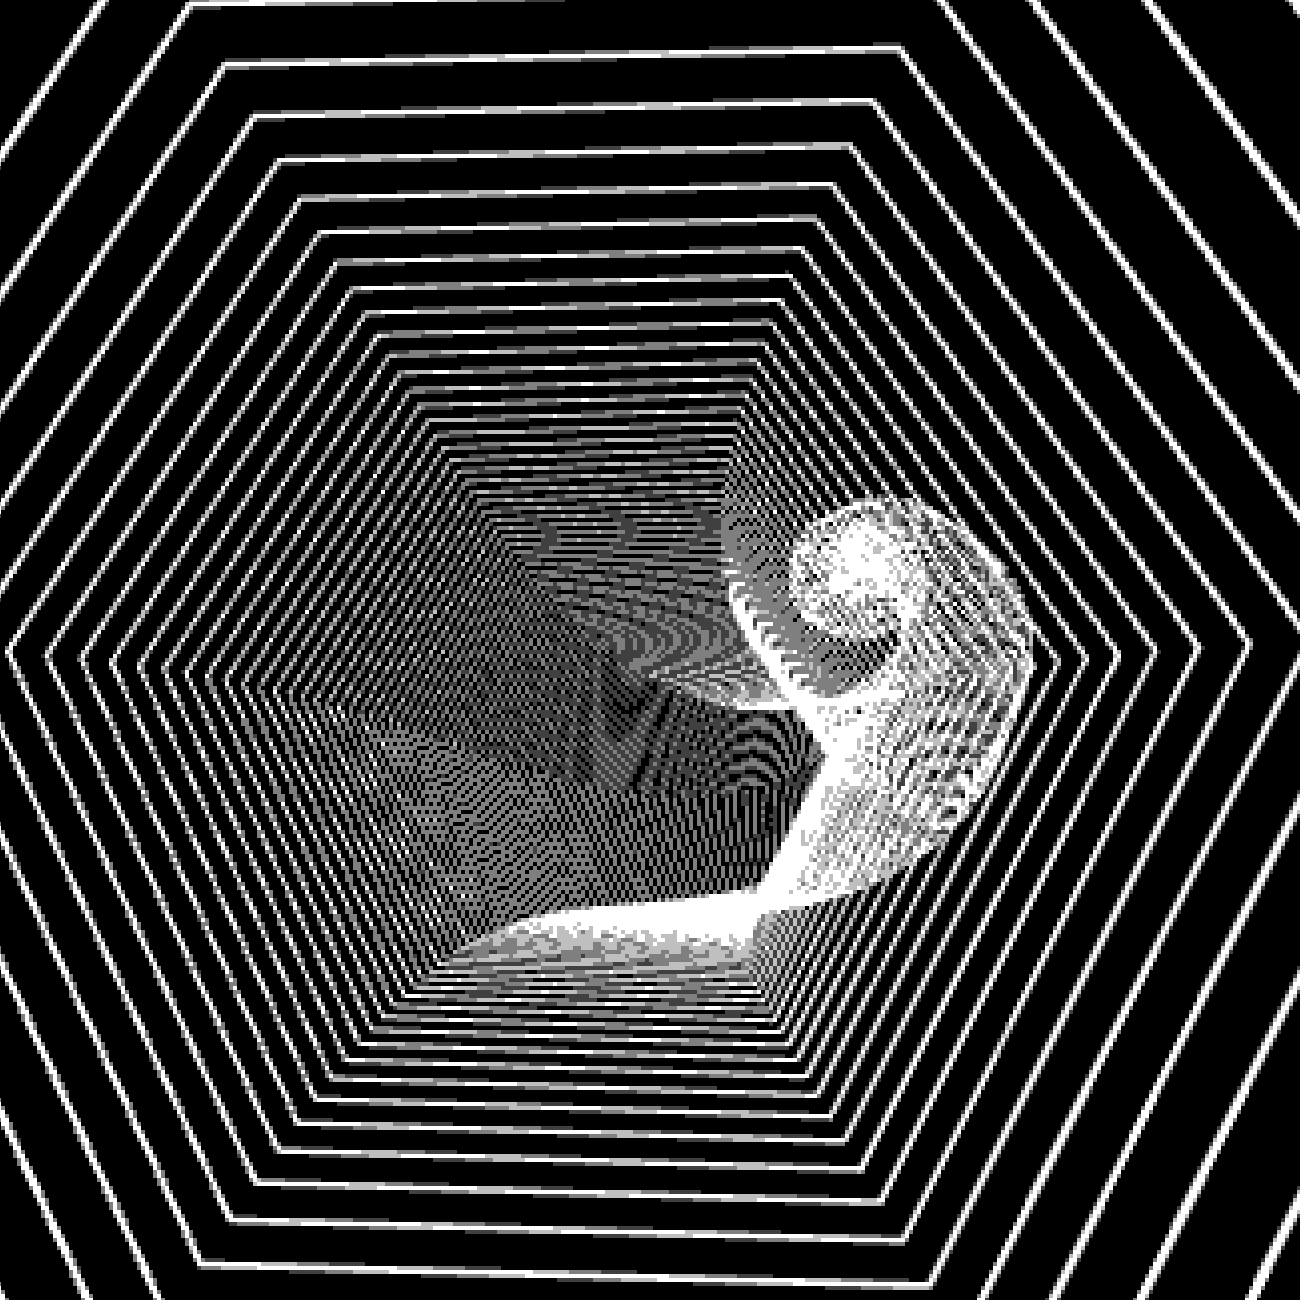
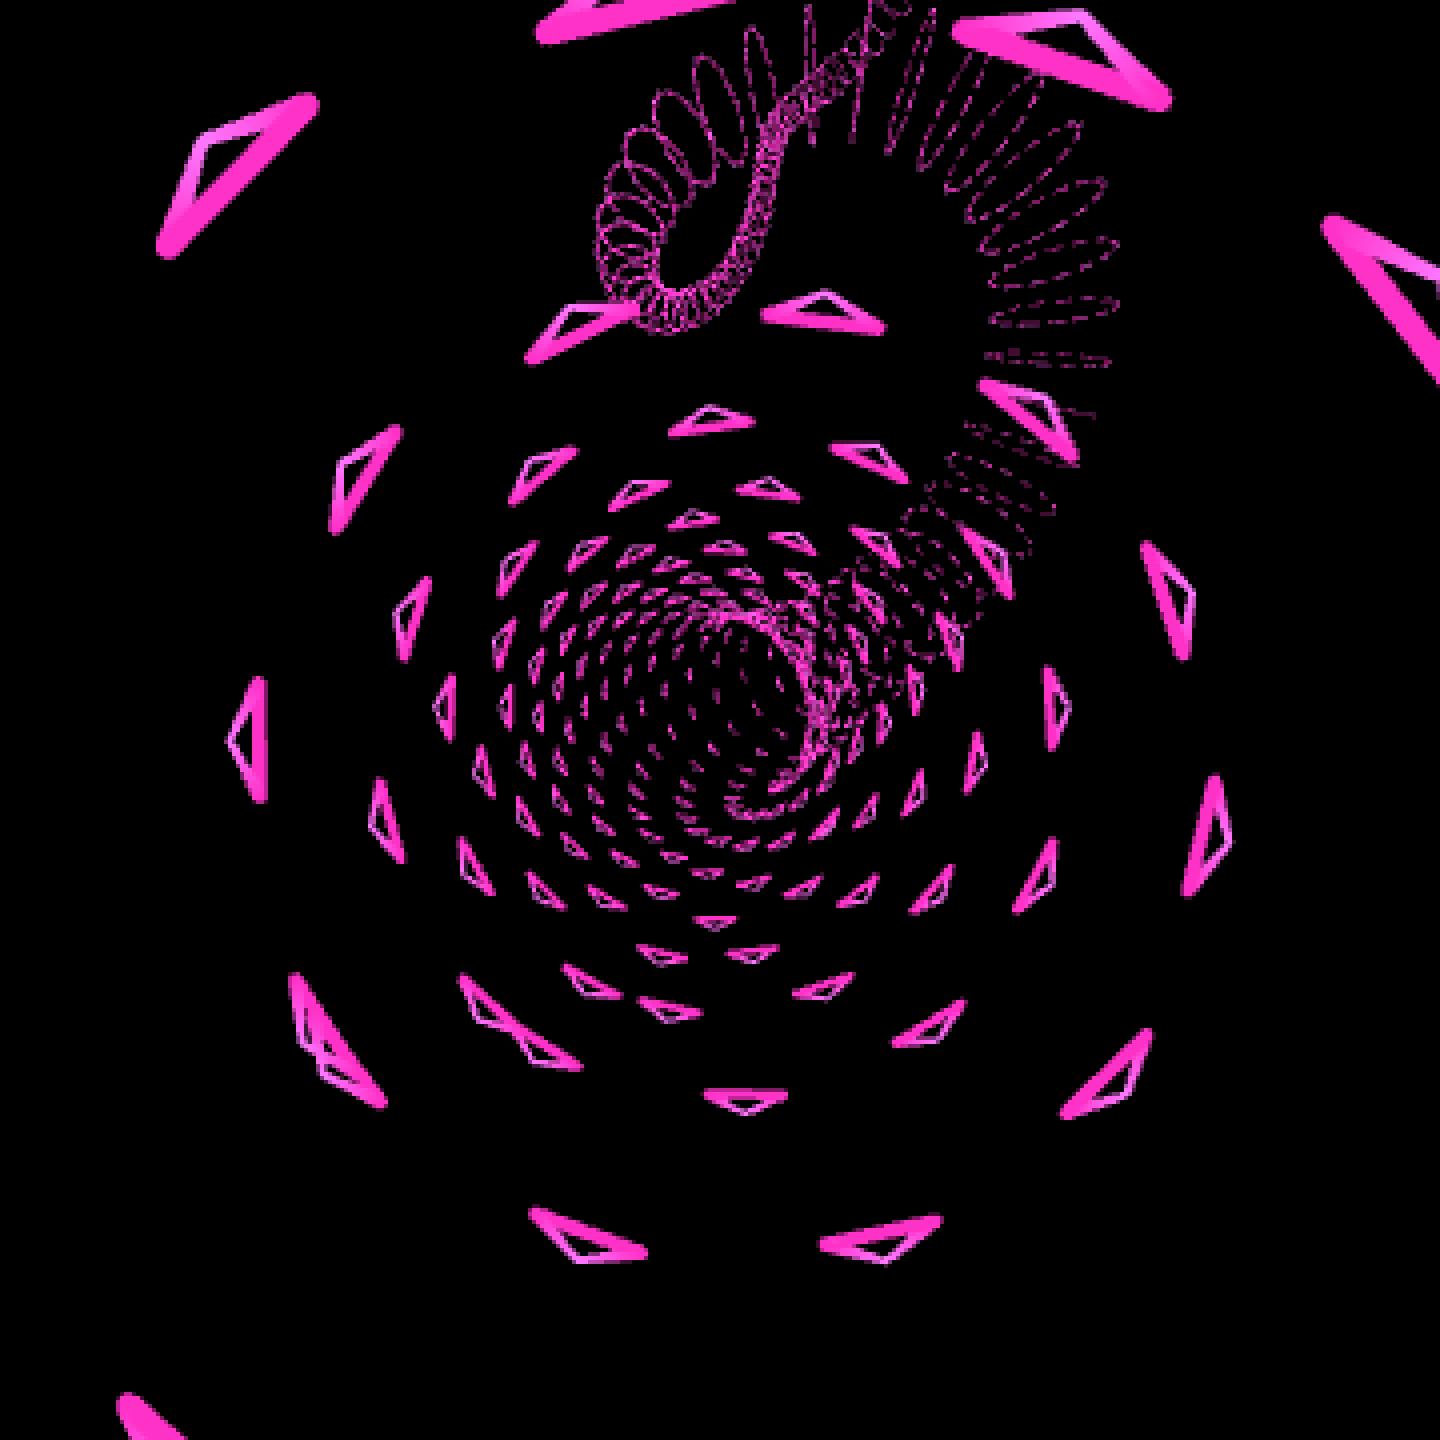
pink-spikes

diff --git a/2026/wormhole/path.js b/2026/wormhole/path.js
@@ -19,9 +19,9 @@ export class Path {
     }
 
     setLerp(a, b, t) {
-      this.distance = lerp(a.distance, b.distance, overShoot);
-      this.position.setLerp(a.position, b.position, overShoot);
-      this.orientation.setLerp(a.orientation, b.orientation, overShoot).inplaceNormalise();
+      this.distance = lerp(a.distance, b.distance, t);
+      this.position.setLerp(a.position, b.position, t);
+      this.orientation.setLerp(a.orientation, b.orientation, t).inplaceNormalise();
       return this;
     }
 
@@ -39,22 +39,24 @@ export class Path {
     }
   };
 
-  constructor(pointCount, pointStepDistance) {
+  constructor(pointCount, pointStepDistance, style) {
     this.pointCount = pointCount;
     this.pointStepDistance = pointStepDistance;
+    this.style = style;
 
     this.stepCount = 0;
 
-    this.startIndex = 0;
+    this.start = new Path.Point();
+    this.end = new Path.Point();
 
+    this.startIndex = 0;
     this.points = [];
     for (let i = 0; i < this.pointCount; ++i) {
       this.points.push(new Path.Point());
       this.writeNextPoint(i);
     }
 
-    this.start = new Path.Point().set(this.points[0]);
-    this.end = new Path.Point().set(this.points[this.points.length - 1]);
+    this.style.distance = this.end.distance;
   }
 
   progress(distance) {
@@ -62,8 +64,7 @@ export class Path {
     let previousDistance = this.start.distance;
     let deleteCount = 0;
     for (let i = 0; i < this.pointCount; ++i) {
-      const point = this.points[(this.startIndex + i) % this.pointCount];
-      const segmentDistance = point.distance - previousDistance;
+      const segmentDistance = this.getPointByIndex(i).distance - previousDistance;
       if (remainingDistance > segmentDistance) {
         remainingDistance -= segmentDistance;
         ++deleteCount;
@@ -100,6 +101,7 @@ export class Path {
     }
     this.end.distance -= this.start.distance;
     this.end.position.inplaceSubtract(this.start.position);
+    this.style.distance -= this.start.distance;
     this.start.distance = 0;
     this.start.position.setZero();
   }
@@ -108,7 +110,12 @@ export class Path {
     ++this.stepCount;
     this.end.orientation.inplaceMultiplyLeft(
       Rotor3.axisAngle(
-        Vec3.polar((this.stepCount) / 40),
+        Vec3.polar(this.stepCount / 40),
+        0.02,
+      ),
+    ).inplaceMultiplyLeft(
+      Rotor3.axisAngle(
+        Vec3.polar((this.stepCount + 100) / 400).inplaceOrthogonal().inplaceNormalise(),
         0.02,
       ),
     );
@@ -117,29 +124,34 @@ export class Path {
     this.points[index].set(this.end);
   }
 
-  getPoint(distance) {
-    if (distance <= this.points[0].distance) {
-      return getPointReturnValue.setLerp(this.points[0], this.points[1], (distance - this.points[0].distance) / this.pointStepDistance);
+  getPointByIndex(index) {
+    return this.points[(this.startIndex + index + this.pointCount) % this.pointCount];
+  }
+
+  getPointByDistance(distance) {
+    if (distance <= this.getPointByIndex(0).distance) {
+      return getPointReturnValue.setLerp(this.getPointByIndex(0), this.getPointByIndex(1), (distance - this.getPointByIndex(0).distance) / this.pointStepDistance);
     }
-    if (distance >= this.points[this.points.length - 1].distance) {
+    if (distance >= this.getPointByIndex(-1).distance) {
       return getPointReturnValue.setLerp(
-        this.points[this.points.length - 2],
-        this.points[this.points.length - 1],
-        (distance - this.points[this.points.length - 1].distance) / this.pointStepDistance,
+        this.getPointByIndex(-2),
+        this.getPointByIndex(-1),
+        (distance - this.getPointByIndex(-1).distance) / this.pointStepDistance,
       );
     }
-    const index = Math.floor((distance - this.points[0].distance) / this.pointStepDistance);
+    const index = Math.floor((distance - this.getPointByIndex(0).distance) / this.pointStepDistance);
     return getPointReturnValue.setLerp(
-      this.points[index],
-      this.points[index + 1],
-      (distance - this.points[index].distance) / this.pointStepDistance,
+      this.getPointByIndex(index),
+      this.getPointByIndex(index + 1),
+      (distance - this.getPointByIndex(index).distance) / this.pointStepDistance,
     );
   }
 
-  render(hexLines) {
-    for (const point of this.points) {
-      point.render(hexLines);
-    }
+  render(hexLines, time) {
+    // for (const point of this.points) {
+    //   point.render(hexLines);
+    // }
+    this.style.render(hexLines, time, this, this.start.distance, this.end.distance);
   }
 }
 

diff --git a/2026/wormhole/pink-spikes.js b/2026/wormhole/pink-spikes.js
@@ -1,0 +1,73 @@
+import {Vec3} from '../../third-party/ga/vec3.js';
+import {Rotor3} from '../../third-party/ga/rotor3.js';
+
+const TAU = Math.PI * 2;
+
+export class PinkSpikes {
+  constructor() {
+    this.distance = 0;
+
+    const base = {r: 255, g: 50, b: 200};
+    const peak = {r: 255, g: 120, b: 255};
+    const spikeWidth = 10;
+    const spikeHeight = 8;
+    this.spikePoints = [{
+      position: new Vec3(0, spikeWidth / 2),
+      colour: base,
+      size: 2,
+    }, {
+      position: new Vec3(spikeHeight, 0),
+      colour: peak,
+      size: 1,
+    }, {
+      position: new Vec3(0, -spikeWidth / 2),
+      colour: base,
+      size: 2,
+    }];
+  }
+
+  render(hexLines, time, path, nearDistance, farDistance) {
+    const step = 50;
+    let pathDistance = roundTo(this.distance, nearDistance, step);
+    while (pathDistance < farDistance) {
+      const point = path.getPointByDistance(pathDistance);
+      const delta = pathDistance - this.distance;
+      const radius = 20 + 30 * (Math.cos(delta / 700 + 1) + 1);
+      const startAngle = delta / 300 + 5 * Math.cos(time / 5000) * (Math.cos(delta / 1000) + 1.5);
+      const spokes = 10 + 6 * Math.cos(delta / 1500);
+      const scaleX = 1.2 + 0.6 * Math.cos(delta / 6500 + 2);
+      const scaleY = 1.0 + 0.5 * Math.cos(delta / 9000 + 5);
+
+      for (let i = 0; i < spokes; ++i) {
+        rotation.setPolar(startAngle + TAU * i / spokes);
+
+        const squishMax = 15 * Math.cos(TAU * (Math.cos(delta / 5000) + 1)) * Math.cos(delta / 3000);
+        const squishDirection = Vec3.a.setPolar(delta / 8500);
+        const squish = squishMax * rotation.dot(squishDirection);
+
+        for (let j = 0; j <= this.spikePoints.length; ++j) {
+          const spikePoint = this.spikePoints[j % this.spikePoints.length];
+          hexLines.addPoint({
+            colour: spikePoint.colour,
+            position: Vec3.set(spikePoint.position)
+              .inplaceScaleXyz(scaleX, scaleY)
+              .inplaceAddXyz(radius + squish)
+              .inplaceRotateXy(rotation)
+              .inplaceRotateRotor3(point.orientation)
+              .inplaceAdd(point.position),
+            size: spikePoint.size,
+          });
+        }
+        hexLines.addNull();
+      }
+
+      pathDistance += step;
+    }
+  }
+}
+
+const rotation = new Vec3();
+
+function roundTo(origin, x, step) {
+  return origin + Math.round((x - origin) / step) * step;
+}

diff --git a/2026/wormhole/main.js b/2026/wormhole/main.js
@@ -1,5 +1,6 @@
 import {HexLinesContext} from '../../third-party/hex-lines/src/hex-lines.js';
 import {Path} from './path.js';
+import {PinkSpikes} from './pink-spikes.js';
 import {Mat4} from '../../third-party/ga/mat4.js';
 import {Rotor3} from '../../third-party/ga/rotor3.js';
 import {Vec3} from '../../third-party/ga/vec3.js';
@@ -7,15 +8,16 @@ import {Vec3} from '../../third-party/ga/vec3.js';
 async function main() {
   const {hexLinesContext} = HexLinesContext.setupFullPageContext({is3d: true, pixelSize: 4});
   const hexLines = hexLinesContext.createLines();
-  const path = new Path(1000, 10);
+  const pinkSpikes = new PinkSpikes();
+  const path = new Path(1000, 10, pinkSpikes);
 
   while (true) {
-    await new Promise(requestAnimationFrame);
-    path.progress(0.5);
+    const time = await new Promise(requestAnimationFrame);
+    path.progress(3 + 3 * (Math.cos(time / 10000) + 1));
     hexLines.clear();
-    path.render(hexLines);
+    path.render(hexLines, time);
     Mat4.multiply(
-      Mat4.a.setRotateRotor3(Rotor3.conjugate(path.start.orientation)),
+      Mat4.a.setRotateRotor3(Rotor3.conjugate(path.getPointByDistance(100).orientation)),
       Mat4.b.setTranslateVec3(Vec3.scale(-1, path.start.position)),
     ).exportToArrayBuffer(hexLines.transformMatrix);
     hexLines.draw();
